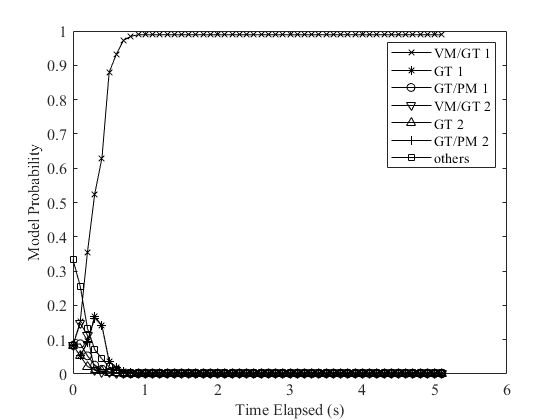
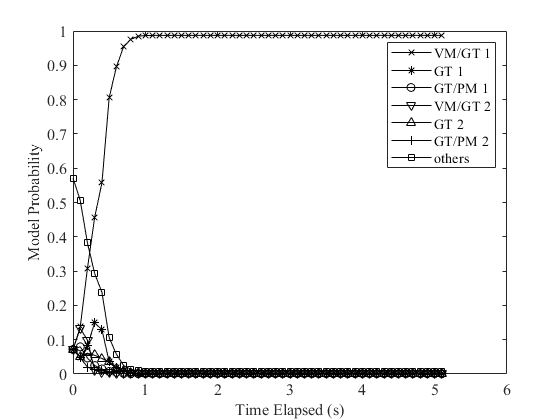
changed out optimizers, redid sim1 runs with full 7x2 bank

Changed region(s): [[0.1214, 0.1238, 0.7893, 0.8976], [0.2125, 0.0619, 0.7893, 0.1238]]

diff --git a/src/src/maxTraj.m b/src/src/maxTraj.m
@@ -27,6 +27,9 @@ vmtune = miscParams.vmtune;
 scaleVec = miscParams.scaleVec;
 du = miscParams.du;
 
+ewxvPur=gameState.xPur;
+ewxvEva=gameState.xEva;
+
 xE0 = gameState.xEva(7:9);
 
 QtargetP = Spur.Jparams.Q_target;
@@ -78,6 +81,12 @@ for iT=1:miscParams.numTargets
             vmgt_RA_HeurScript;
             uEvaTemp=uEvaVMGTH;
             Ru=0.15*eye(4);
+        elseif strcmp(heurTypeStruc{ij},'ibr-linear-3d')
+            ibrLinearScript;
+            uEvaTemp=uEvaQuadOut;
+        elseif strcmp(heurTypeStruc{ij},'ibr-linear-2d')
+            ibrLinear2DScript;
+            uEvaTemp=uEvaQuadOut;
         elseif strcmp(heurTypeStruc{ij},'other')
             uEvaTemp=omega_hover*ones(4,1);
             Ru=1*eye(4);
@@ -163,7 +172,7 @@ end
 %propagate each evader type
 nn=0;
 for ij = 1:nUe
-    %     uu=uEset{ij}
+%         uu=uEset{ij}
     xE2{ij} = feval(Seva.fname,gameState.xEva,uEset{ij},gameState.dt,zeros(6,1));
 end
 
@@ -183,12 +192,14 @@ indexInCost = indexInCost(nonRepList==1,:);
 if strcmp(costType,'distance')
     for ip = 1:nUset
         gameState.xPur = xP2{ip};
+        ewxvPur = gameState.xPur;
         uEset={};
         nn=0;
         for iT=1:miscParams.numTargets
             targetLocation=miscParams.targetLocationVec{iT};
             for ij=1:nmod
                 gameState.xEva=xE2{ij};
+                ewxvEva=gameState.xEva;
                 xPur = [xP2{ip};xE2{ij}];
                 xTrue = xPur;
                 nn=nn+1;
@@ -212,6 +223,12 @@ if strcmp(costType,'distance')
                     heurtype='heur_only';
                     vmgt_RA_HeurScript;
                     uEvaTemp=uEvaVMGTH;
+                elseif strcmp(heurTypeStruc{ij},'ibr-linear-3d')
+                    ibrLinearScript;
+                    uEvaTemp=uEvaQuadOut;
+                elseif strcmp(heurTypeStruc{ij},'ibr-linear-2d')
+                    ibrLinear2DScript;
+                    uEvaTemp=uEvaQuadOut;
                 elseif strcmp(heurTypeStruc{ij},'other')
                     uEvaTemp=omega_hover*ones(4,1);
                 end
@@ -381,11 +398,11 @@ end
 
 
 if strcmp(costType,'entropy-ga')
-%     options = optimoptions('ga','MaxStallGenerations',5,'MaxGenerations',10);
+    optimoptions('fmincon','MaxIterations',3000);
     cfnc = @(x) helperFuncForEntropyGA(x,Spur,Seva,gameState,miscParams,heurTypeStruc,muVeck,tSimMMKF);
     vv=[1;1]*(1:tSimMMKF);
     vv=vv(:);
-    [x2,Vset]=ga(@(x) cfnc(x), 2*tSimMMKF, [],[],[],[], -vv*umax, vv*umax, [], options);
+    [x2,Vset]=fmincon(@(x) cfnc(x), zeros(2*tSimMMKF,1), [],[],[],[], -vv*umax, vv*umax, []);
     uPur=reshape(x2, [2 tSimMMKF]);
 else
     Vset = Vtraj;

diff --git a/src/topSimulateQuadPE_TargetIMMKF_fastLearning_sim3.m b/src/topSimulateQuadPE_TargetIMMKF_fastLearning_sim3.m
@@ -38,7 +38,7 @@ muVeckStack=cell(3,1);
 % indInfo = [1 3 5];
 indInfo = [1];
 
-for i3sim=1:3
+for i3sim=1:4
 
 %NOTE: TUNING IN VMRGO REQUIRES USING fdynEva AND fdynPur FOR PM SIM
 %  SET DRAG PARAMS IN BOTH TO 0.
@@ -57,6 +57,9 @@ elseif i3sim==2
 elseif i3sim==3
     indexToRunInfo=indInfo;
     infoType='distance';
+elseif i3sim==4
+    indexToRunInfo=indInfo;
+    infoType='entropy';
 end
 
 % Use best response by taking mean of rotor speeds
@@ -87,6 +90,7 @@ heurTypeStruc{2}='gt-full';
 heurTypeStruc{3}='gt-pm';
 heurTypeStruc{4}='vm';
 heurTypeStruc{5}='vmgt-heur';
+heurTypeStruc{6}='ibr-linear-2d';
 % heurTypeStruc{6}='other';
 [~,nmod]=size(heurTypeStruc);
 
@@ -174,10 +178,12 @@ for t=t0:dt:tmax
     Spur.Jparams.Rself=Rpur;
     Spur.Jparams.Ropp=zeros(4,4);
     Spur.uLmax=uLmax;
+    Spur.Rselflin=eye(2);
     Seva.Jparams.Q=Qeva;
     Seva.Jparams.Rself=Reva;
     Seva.Jparams.Ropp=zeros(4,4);
     Seva.uLmax=uLmax;
+    Seva.Rselflin=eye(2);
     
     % Robust estimation params
     miscParams.Qk=0.001*eye(24);
@@ -347,6 +353,11 @@ for t=t0:dt:tmax
                 uEvaTemp=uEvaVMGTH;
                 Ru=0.10*eye(4);
                 uEvaTypeStack{(iT-1)*nmod+ij,1}='nash-vmgt-heur2';
+            elseif strcmp(heurTypeStruc{ij},'ibr-linear-2d')
+                ibrLinear2DScript;
+                Ru=0.10*eye(4);
+                uEvaTemp=uEvaQuadOut;
+                uPurTemp=uPurQuadOut;
             elseif strcmp(heurTypeStruc{ij},'other')
                 uEvaTemp=omega_hover*ones(4,1);
                 Ru=1*eye(4);

diff --git a/src/src/calcEntropyCostForGA.m b/src/src/calcEntropyCostForGA.m
@@ -33,6 +33,8 @@ Rk = 0.1*eye(12); %temp "fake" measurement covariance
 uEvaEst=[0;0]; %for VM
 
 xPur = [gameState.xPur;gameState.xEva];
+ewxvPur = gameState.xPur;
+ewxvEva = gameState.xEva;
 xTrue = xPur;
 nn=0;
 RuStack=cell(nUe,1);
@@ -80,6 +82,12 @@ for iT=1:miscParams.numTargets
             vmgt_RA_HeurScript;
             uEvaTemp=uEvaVMGTH;
             Ru=0.15*eye(4);
+        elseif strcmp(heurTypeStruc{ij},'ibr-linear-3d')
+            ibrLinearScript;
+            uEvaTemp=uEvaQuadOut;
+        elseif strcmp(heurTypeStruc{ij},'ibr-linear-2d')
+            ibrLinear2DScript;
+            uEvaTemp=uEvaQuadOut;
         elseif strcmp(heurTypeStruc{ij},'other')
             uEvaTemp=omega_hover*ones(4,1);
             Ru=1*eye(4);
@@ -193,6 +201,9 @@ for ikUxT=1:nU2
 
         xPur=[xPsim;xEsim];
 
+        ewxvPur = xPsim;
+        ewxvEva = xEsim;
+
         for inn2 = 1:nU2
             ikFakeH = controlXtargetCombs(inn2,2);
             ikFakeT = controlXtargetCombs(inn2,1);
@@ -216,6 +227,12 @@ for ikUxT=1:nU2
                 heurtype='heur_only';
                 vmgt_RA_HeurScript;
                 uEvaTemp=uEvaVMGTH;
+            elseif strcmp(heurTypeStruc{ikFakeH},'ibr-linear-3d')
+                ibrLinearScript;
+                uEvaTemp=uEvaQuadOut;
+            elseif strcmp(heurTypeStruc{ikFakeH},'ibr-linear-2d')
+                ibrLinear2DScript;
+                uEvaTemp=uEvaQuadOut;
             elseif strcmp(heurTypeStruc{ikFakeH},'other')
                 uEvaTemp=omega_hover*ones(4,1);
             end

diff --git a/figs_and_mats/_paper1/topSimulateQuadPE_TargetIMMKF.m b/figs_and_mats/_paper1/topSimulateQuadPE_TargetIMMKF.m
@@ -42,7 +42,7 @@ heurTypeStruc{3}='gt-pm';
 heurTypeStruc{4}='vm';
 heurTypeStruc{5}='vmgt-heur';
 heurTypeStruc{6}='ibr-linear-2d';
-% heurTypeStruc{6}='other';
+heurTypeStruc{7}='other';
 [~,nmod]=size(heurTypeStruc);
 
 % load nnTrainSets\nnQuadDyn\network.mat
@@ -477,7 +477,7 @@ plot(dt*(0:n),muHist(8,:),'k-+')
 figset
 xlabel('Time Elapsed (s)')
 ylabel('Model Probability')
-plot(dt*(0:n),sum(muHist([4 5 9 10],:)),'k-s')
+plot(dt*(0:n),sum(muHist([4 5 9 10 11 12 13 14],:)),'k-s')
 % legend('VM/GT','GT','GT/PM','VM','VMGTHeur','other','VM/GT 2')
 legend('VM/GT 1','GT 1','GT/PM 1','VM/GT 2','GT 2','GT/PM 2','others')
 figset
